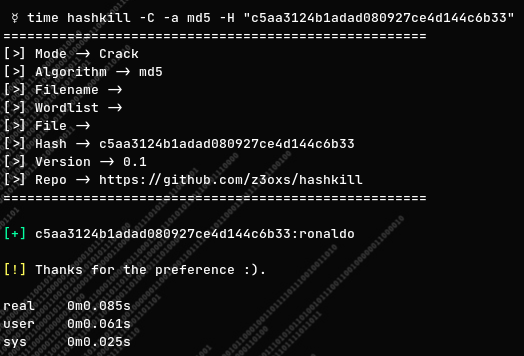
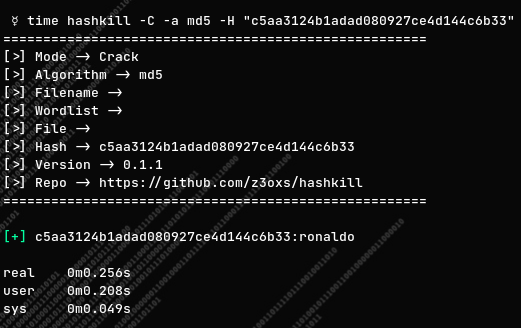
Release v0.1.1

Changed region(s): [[0.0, 0.0, 0.9827, 1.0], [0.5221, 0.8232, 0.5528, 0.8537], [0.3685, 0.9756, 0.3992, 1.0]]

diff --git a/cmd/hashkill.go b/cmd/hashkill.go
@@ -1,11 +1,6 @@
 package cmd
 
 import (
-    "bufio"
-    "os"
-    "log"
-    "fmt"
-    "os/exec"
     "sync"
     
     "github.com/z3oxs/hashkill/utils"
@@ -25,7 +20,7 @@ func Hashkill(c *cobra.Command, args []string) {
     crackM, _ := c.Flags().GetBool("crack")
 
     if hashtype {
-        fmt.Println(utils.Hashtype())
+        utils.Hashtype()
 
         return
     }
@@ -45,81 +40,4 @@ func Hashkill(c *cobra.Command, args []string) {
 
         }
     }
-
-    fmt.Println("\n\033[33m[!] \033[mThanks for the preference :).")
-}
-
-func create(algo, wordlist, hashedwl string) {
-    file, err := os.Open(wordlist)
-    if err != nil {
-        log.Fatal("Undefined wordlist, use '--wordlist' or '-w' to define.")
-
-    }
-
-    defer file.Close()
-
-    newFile, err := os.Create(hashedwl)
-    if err != nil {
-        log.Fatal("Unable to create the hashed wordlist file.")
-
-    }
-
-    defer newFile.Close()
-
-    fmt.Println("\033[32m[+] \033[mCreating hashed wordlist named\033[33m", hashedwl, "\033[m")
-
-    scanner := bufio.NewScanner(file)
-    for scanner.Scan() {
-        newFile.WriteString(fmt.Sprintf("%v:%v\n", Crypto(algo, scanner.Text()), scanner.Text()))
-    
-    }
-}
-
-func crack(algo, wordlist, hash, ftype string) {
-    if ftype == "file" {
-        hashFile, err := os.Open(hash)
-        if err != nil {
-            log.Fatal("Unable to read the hashs file.")
-
-        }
-
-        defer hashFile.Close()
-    
-        scannerHashs := bufio.NewScanner(hashFile)
-        for scannerHashs.Scan() {
-            wg.Add(1)
-            go grep(scannerHashs.Text(), fmt.Sprintf("%v/.config/hashkill/%v.txt", os.Getenv("HOME"), algo))
-
-        }
-
-    } else {
-        wg.Add(1)
-        go grep(hash, fmt.Sprintf("%v/.config/hashkill/%v.txt", os.Getenv("HOME"), algo))
-
-    }
-
-    wg.Wait()
-}
-
-func grep(hash, wordlist string) {
-    if hash  == "" || wordlist == "" {
-        log.Fatal("Hash or wordlist cannot be empty.")
-
-    }
-
-    cmd := exec.Command("grep", hash, wordlist)
-    stdout, err := cmd.Output()
-    if err != nil {
-        if fmt.Sprintf("%v", err) != "exit status 1" {
-            log.Fatal("Wordlist not exists in wordlists folder.")
-        
-        }
-    }
-
-    if string(stdout) != "" {
-        fmt.Printf("\033[32m[+] \033[m%v", string(stdout))
-    
-    }
-
-    wg.Done()
 }

diff --git a/cmd/create.go b/cmd/create.go
@@ -1,0 +1,34 @@
+package cmd
+
+import (
+    "os"
+    "log"
+    "bufio"
+    "fmt"
+) 
+
+func create(algo, wordlist, hashedwl string) {
+    file, err := os.Open(wordlist)
+    if err != nil {
+        log.Fatal("Undefined wordlist, use '--wordlist' or '-w' to define.")
+
+    }
+
+    defer file.Close()
+
+    newFile, err := os.Create(hashedwl)
+    if err != nil {
+        log.Fatal("Unable to create the hashed wordlist file.")
+
+    }
+
+    defer newFile.Close()
+
+    fmt.Println("\033[32m[+] \033[mCreating hashed wordlist named\033[33m", hashedwl, "\033[m")
+
+    scanner := bufio.NewScanner(file)
+    for scanner.Scan() {
+        newFile.WriteString(fmt.Sprintf("%v:%v\n", Crypto(algo, scanner.Text()), scanner.Text()))
+    
+    }
+}

diff --git a/cmd/crack.go b/cmd/crack.go
@@ -1,0 +1,34 @@
+package cmd
+
+import (
+    "os"
+    "log"
+    "bufio"
+    "fmt"
+)
+
+func crack(algo, wordlist, hash, ftype string) {
+    if ftype == "file" {
+        hashFile, err := os.Open(hash)
+        if err != nil {
+            log.Fatal("Unable to read the hashs file.")
+
+        }
+
+        defer hashFile.Close()
+    
+        scannerHashs := bufio.NewScanner(hashFile)
+        for scannerHashs.Scan() {
+            wg.Add(1)
+            go grep(scannerHashs.Text(), fmt.Sprintf("%v/.config/hashkill/%v.txt", os.Getenv("HOME"), algo))
+
+        }
+
+    } else {
+        wg.Add(1)
+        go grep(hash, fmt.Sprintf("%v/.config/hashkill/%v.txt", os.Getenv("HOME"), algo))
+
+    }
+
+    wg.Wait()
+}

diff --git a/cmd/grep.go b/cmd/grep.go
@@ -1,0 +1,30 @@
+package cmd
+
+import (
+    "log"
+    "os/exec"
+    "fmt"
+)
+
+func grep(hash, wordlist string) {
+    if hash  == "" || wordlist == "" {
+        log.Fatal("Hash or wordlist cannot be empty.")
+
+    }
+
+    cmd := exec.Command("grep", hash, wordlist)
+    stdout, err := cmd.Output()
+    if err != nil {
+        if fmt.Sprintf("%v", err) != "exit status 1" {
+            log.Fatal("Wordlist not exists in wordlists folder.")
+        
+        }
+    }
+
+    if string(stdout) != "" {
+        fmt.Printf("\033[32m[+] \033[m%v", string(stdout))
+    
+    }
+
+    wg.Done()
+}

diff --git a/utils/hashtypes.go b/utils/hashtypes.go
@@ -1,5 +1,7 @@
 package utils
 
-func Hashtype() string {
-    return "Available hashtypes: \n\nmd5\nsha1\nsha224\nsha256\nsha384\nsha512\nsha3_224\nsha3_256\nsha3_384\nsha3_512\nsha512_224\nsha512_256\nblake2s\nblake2b_256\nblake2b_384\nblake2b_512"
+import "fmt"
+
+func Hashtype() {
+    fmt.Println("Available hashtypes: \n\nmd5\nsha1\nsha224\nsha256\nsha384\nsha512\nsha3_224\nsha3_256\nsha3_384\nsha3_512\nsha512_224\nsha512_256\nblake2s\nblake2b_256\nblake2b_384\nblake2b_512")
 }

diff --git a/utils/banner.go b/utils/banner.go
@@ -10,7 +10,7 @@ func Banner(mode, algo, filename, wordlist, file, hash string) {
 [>] Wordlist -> %v
 [>] File -> %v
 [>] Hash -> %v
-[>] Version -> 0.1
+[>] Version -> 0.1.1
 [>] Repo -> https://github.com/z3oxs/hashkill
 =====================================================
 

diff --git a/README.md b/README.md
@@ -3,6 +3,11 @@
 <img src="screenshot.png" />
 
 <br><br>
+## ♻ Changelog v0.1.1
+- Separated methods/functions by particular files
+- Some fixes
+
+<br><br>
 ## ❓ What is this?
 - A simple golang script to generate pre-hashed files to speed up password cracking, using standard methods to speed up hash locating.
 
